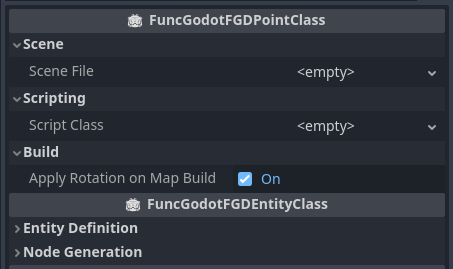
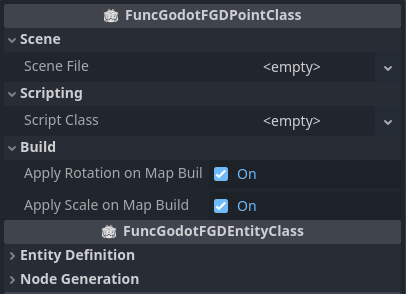
Update for 2025.1

diff --git a/FuncGodot Manual/pages/guide_building_maps.html b/FuncGodot Manual/pages/guide_building_maps.html
@@ -54,6 +54,7 @@
             <a href="https://docs.godotengine.org/en/stable/tutorials/3d/global_illumination/using_lightmap_gi.html#setting-up" target="_blank">
                 consult the Godot documentation</a> for more information.
         </p>
+        
         <h2 id="InverseScaleFactor">Inverse Scale Factor</h2>
         <p>
             One of the most impactful properties is the <b>Inverse Scale Factor</b>. It tells FuncGodot how big or small your map should be built. 
@@ -79,6 +80,7 @@
                 into Godot Units using your Inverse Scale Factor.
             </i>
         </p>
+
         <h2 id="TrenchbroomHierarchy">Use Trenchbroom Groups Hierarchy</h2>
         <p>
             TrenchBroom has some unique features in the form of <i>Layers</i> and <i>Groups</i> (not to be confused with <i>func_group</i>, but also they're func_groups; 
@@ -94,6 +96,17 @@
         <p align="center"><img src="../images/guide_build_groups2.png" alt="Scene tree showing a flat entity hierarchy"></p>
         <p align="center">However, if you build your FuncGodotMap with <i>Use Trenchbroom Groups Hierarchy</i> enabled, you'll get this instead:</p>
         <p align="center"><img src="../images/guide_build_groups3.png" alt="Scene tree showing a multi level entity hierarchy based upon the map layers and groups"></p>
+
+        <h2 id="DefaultMapSettings">Default Map Settings</h2>
+        <p>
+            Every time you instantiate a new FuncGodotMap node the map settings applied default to the resource found in the addons folder. Instead of forcing 
+            you to set the map settings to your custom one each time, FuncGodot does have a Project Setting that allows you to choose a custom Map Settings resource 
+            as your default.
+        </p>
+        <p align="center"><img src="../images/guide_build_proj_settings.png" alt="FuncGodotMap buttons"></p>
+        <p>
+            Keep in mind that this only affects new FuncGodotMap nodes. Any already instantiated with the old settings will retain them unless manually changed.
+        </p>
 
         <h2 id="Building">Building</h2>
         <p>

diff --git a/FuncGodot Manual/pages/faq.html b/FuncGodot Manual/pages/faq.html
@@ -15,6 +15,7 @@
             <a href="#SourceControl">How does FuncGodot handle source control?</a><br>
             <a href="#LocalConfigWontExport">Why am I getting an error trying to export my Local Configuration?</a><br>
             <a href="#EntitiesNotBuilding">Why are my new entities not building? Why can't I find them in my map editor?</a><br>
+            <a href="#EntitiesNotBuilding2">Why are all my entities being generated as scriptless <i>Node3Ds</i>?</a><br>
             <a href="#NodesDisappeared">Help! I manually added some nodes to my FuncGodotMap and when I hit build again they all disappeared!</a><br>
             <a href="#SplitMap">How do I split up my map? It only comes out as one big mesh</a><br>
             <a href="#Overdraw">I'm getting a lot of overdraw, why doesn't FuncGodot get rid of unseen faces?</a><br>
@@ -49,6 +50,14 @@
             <b class="faq">Why are my new entities not building? Why can't I find them in my map editor?</b><br>
             Double check to make sure you set a <a href="ref_fgd_resources.html#Entity" target="main">Classname</a> in the entity resource before you exported the FGD. 
             If this doesn't exist, FuncGodot will skip adding it to the FGD file and will only generate a <i>Node3D</i>.
+        </p>
+
+        <p id="EntitiesNotBuilding2">
+            <b class="faq">Why are all my entities being generated as scriptless <i>Node3Ds</i>?</b><br>
+            Make sure your <a href="ref_func_godot_map.html" target="main">FuncGodotMap node</a> is using the correct 
+            <a href="ref_func_godot_map.html#MapSettings" target="main">FuncGodotMapSettings resource</a>. 
+            The Map Settings resource determines the <a href="ref_fgd_resources.html#File" target="main">FGD File resource</a> used for the map generation, 
+            and any entities it does not recognize will generate as <i>Node3Ds</i>.
         </p>
 
         <p id="NodesDisappeared">

diff --git a/FuncGodot Manual/pages/guide_install.html b/FuncGodot Manual/pages/guide_install.html
@@ -28,7 +28,7 @@
         <p>
             FuncGodot directly supports the following editors with configuration resources:
             <ul>
-                <li>TrenchBroom 2024</li>
+                <li>TrenchBroom 2025</li>
                 <li>NetRadiant Custom 1.6</li>
             </ul>
         </p>
@@ -58,7 +58,8 @@
         <p align="center"><img src="../images/guide_install_github_releases.png" height="400" alt="An image displaying where to find the GitHub Stable Release. It shows a circled location on the right side of the GitHub repository page that says 'Releases'."></p>
         <p>
             The final location is the Godot Asset Library. While the intent is to keep the Asset Library release in line with the GitHub Stable Release, 
-            sometimes these releases can be "desynced" for one reason or another. We're a small team of volunteers here, so please be patient with us!
+            sometimes these releases can be "desynced" for one reason or another. We're a small team of volunteers here, so please be patient with us! 
+            If you're finding some bugs or issues with the Asset Library release, try downloading the plugin from one of the other two locations.
         </p>
         <p>
             Our intent is to keep the Stable Releases as reliable as possible, so typically only critical fixes will be pushed with some urgency while new features or 

diff --git a/FuncGodot Manual/pages/ref_fgd_resources.html b/FuncGodot Manual/pages/ref_fgd_resources.html
@@ -426,6 +426,15 @@
                     prioritizing the key value pairs in that order. Set to <i>false</i> if you would like to define how the generated node is rotated yourself.
                 </td>
             </tr>
+            <tr>
+                <td>Apply Scale On Map Build</td>
+                <td>Bool</td>
+                <td>
+                    Toggles whether entity will use `scale` to determine the generated node or scene's scale. 
+                    This is performed on the top level node. The property can be a <i>float</i>, <i>Vector3</i>, or <i>Vector2</i>. 
+                    Set to <i>false</i> if you would like to define how the generated node is scaled yourself.
+                </td>
+            </tr>
         </table>
 
         <br><hr>

diff --git a/FuncGodot Manual/pages/sidenav.html b/FuncGodot Manual/pages/sidenav.html
@@ -44,6 +44,7 @@
         <p class="sidenav2">
             <a href="guide_building_maps.html#InverseScaleFactor" target="main">Inverse Scale Factor</a><br>
             <a href="guide_building_maps.html#TrenchbroomHierarchy" target="main">TrenchBroom Groups Hierarchy</a><br>
+            <a href="guide_building_maps.html#DefaultMapSettings" target="main">Default Map Settings</a><br>
             <a href="guide_building_maps.html#Building" target="main">Building</a>
         </p>
 
